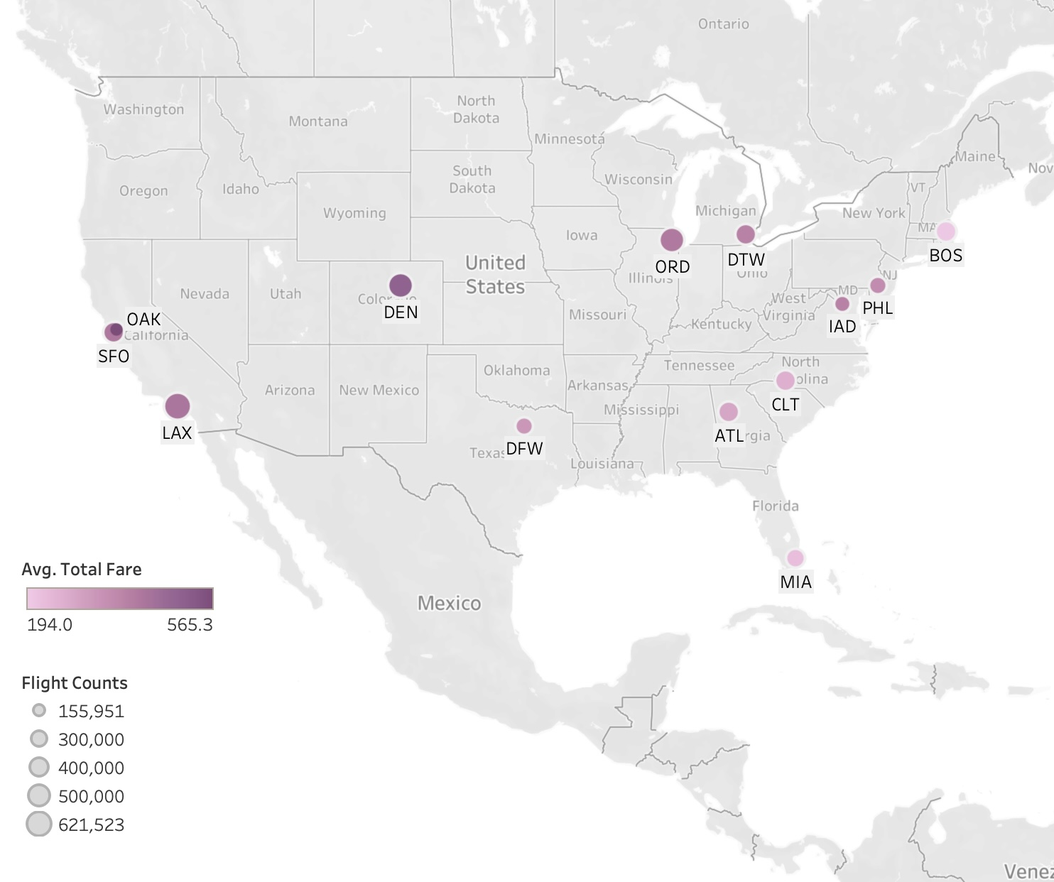
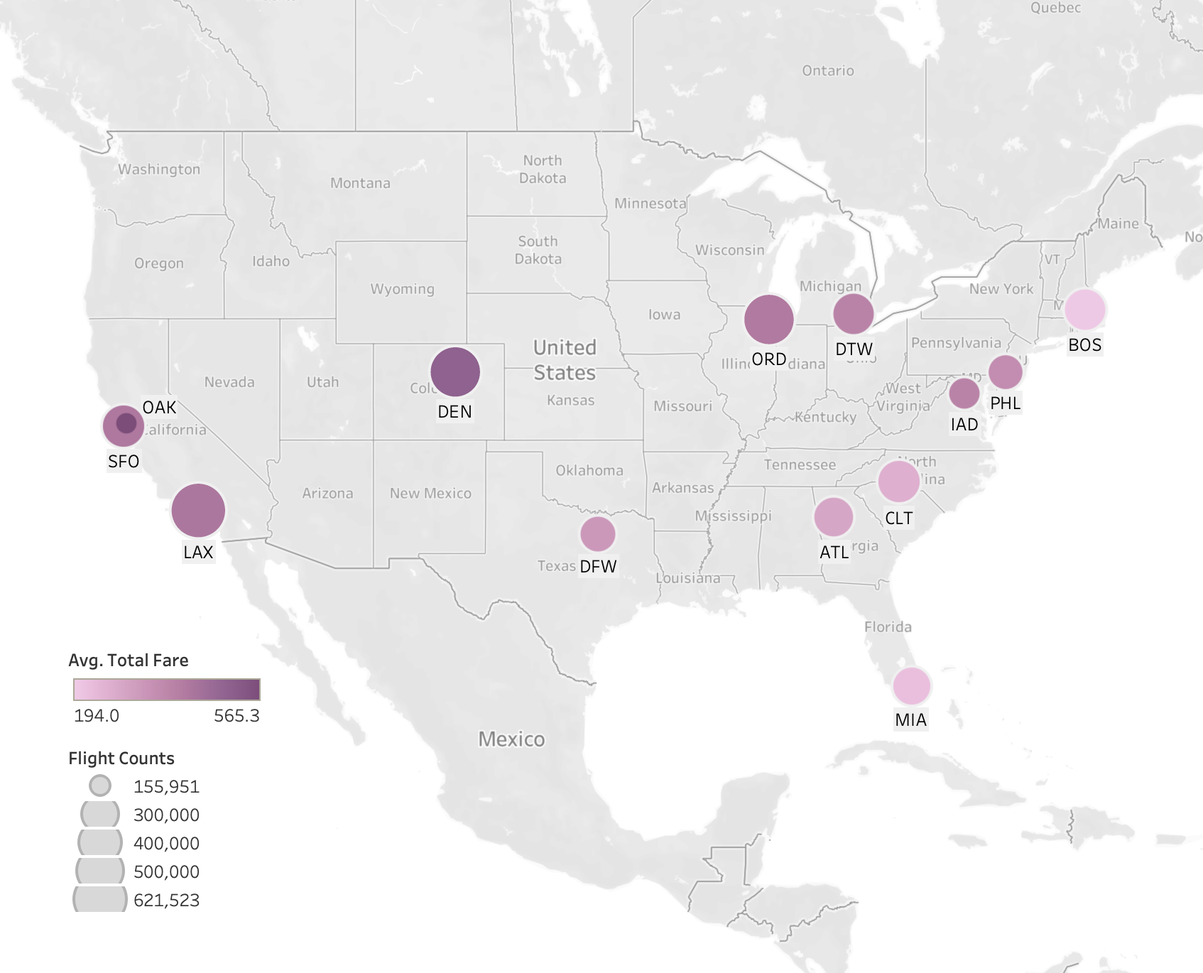
expedia project changes

diff --git a/expedia.html b/expedia.html
@@ -151,7 +151,7 @@
                                                 seeking regional trends and anomalies.</li>
                                             <li><b>Seasonal Fare Trends: </b>To reveal how flight prices and demand
                                                 fluctuate over time,
-                                                especially in relation to seasons, holidays, and weekdays.</li>
+                                                especially in relation to seasons and weekdays.</li>
                                             <li><b>Demand Analysis: </b>To quantify the market share of airlines
                                                 operating flights to JFK, identifying dominant
                                                 carriers and competitive dynamics.</li>
@@ -190,13 +190,12 @@
                                                     <li><b>Null Value Treatment: </b>Eliminated rows with missing data
                                                         to ensure dataset integrity.</li>
                                                     <li><b>Boolean to Numeric: </b>Converted boolean columns like
-                                                        'isBasicEconomy', 'isRefundable', and 'isNonStop' to numeric
-                                                        form (0 and 1).</li>
+                                                        'isBasicEconomy' to numeric form (0 & 1).</li>
                                                     <li><b>Date Transformation: </b>Transformed 'searchDate' and
                                                         'flightDate' into datetime format and 'travelDuration' into
                                                         minutes.</li>
                                                     <li><b>Additional Attributes: </b>Enriched the dataset with new
-                                                        columns for weekdays and holidays from an external source.</li>
+                                                        columns for weekdays.</li>
                                                     <li><b>Segment Standardization: </b>Unified 'segmentsAirlineCode'
                                                         and 'segmentsCabinCode', labeling as 'multiple' where necessary.
                                                     </li>
@@ -227,272 +226,64 @@
                                         <p></p>
 
                                         <!-- Geographical Distribution -->
-                                        <div class='tableauPlaceholder' id='viz1703931283215'
-                                            style='position: relative'><noscript><a href='#'><img
-                                                        alt='Geographical Distribution '
-                                                        src='https:&#47;&#47;public.tableau.com&#47;static&#47;images&#47;Ai&#47;AirlineProject_17038965271980&#47;GeographicalDistribution&#47;1_rss.png'
-                                                        style='border: none' /></a></noscript><object class='tableauViz'
-                                                style='display:none;'>
-                                                <param name='host_url' value='https%3A%2F%2Fpublic.tableau.com%2F' />
-                                                <param name='embed_code_version' value='3' />
-                                                <param name='site_root' value='' />
-                                                <param name='name'
-                                                    value='AirlineProject_17038965271980&#47;GeographicalDistribution' />
-                                                <param name='tabs' value='no' />
-                                                <param name='toolbar' value='yes' />
-                                                <param name='static_image'
-                                                    value='https:&#47;&#47;public.tableau.com&#47;static&#47;images&#47;Ai&#47;AirlineProject_17038965271980&#47;GeographicalDistribution&#47;1.png' />
-                                                <param name='animate_transition' value='yes' />
-                                                <param name='display_static_image' value='yes' />
-                                                <param name='display_spinner' value='yes' />
-                                                <param name='display_overlay' value='yes' />
-                                                <param name='display_count' value='yes' />
-                                                <param name='language' value='en-US' />
-                                                <param name='filter' value='publish=yes' />
-                                            </object></div>
-                                        <script type='text/javascript'>
-                                            var divElement = document.getElementById('viz1703931283215');
-                                            var vizElement = divElement.getElementsByTagName('object')[0];
-                                            if (divElement.offsetWidth > 800) { vizElement.style.width = '1000px'; vizElement.style.height = '827px'; }
-                                            else if (divElement.offsetWidth > 500) { vizElement.style.width = '1000px'; vizElement.style.height = '827px'; }
-                                            else { vizElement.style.width = '100%'; vizElement.style.height = '727px'; }
-                                            var scriptElement = document.createElement('script');
-                                            scriptElement.src = 'https://public.tableau.com/javascripts/api/viz_v1.js';
-                                            vizElement.parentNode.insertBefore(scriptElement, vizElement);                
-                                        </script>
+                                        <div class='tableauPlaceholder' id='viz1704440425327' style='position: relative'><noscript><a href='#'><img alt='Geographical Distribution ' src='https:&#47;&#47;public.tableau.com&#47;static&#47;images&#47;Ai&#47;AirlineProject_17038965271980&#47;GeographicalDistribution&#47;1_rss.png' style='border: none' /></a></noscript><object class='tableauViz'  style='display:none;'><param name='host_url' value='https%3A%2F%2Fpublic.tableau.com%2F' /> <param name='embed_code_version' value='3' /> <param name='site_root' value='' /><param name='name' value='AirlineProject_17038965271980&#47;GeographicalDistribution' /><param name='tabs' value='no' /><param name='toolbar' value='yes' /><param name='static_image' value='https:&#47;&#47;public.tableau.com&#47;static&#47;images&#47;Ai&#47;AirlineProject_17038965271980&#47;GeographicalDistribution&#47;1.png' /> <param name='animate_transition' value='yes' /><param name='display_static_image' value='yes' /><param name='display_spinner' value='yes' /><param name='display_overlay' value='yes' /><param name='display_count' value='yes' /><param name='language' value='en-US' /><param name='filter' value='publish=yes' /></object></div>                <script type='text/javascript'>                    var divElement = document.getElementById('viz1704440425327');                    var vizElement = divElement.getElementsByTagName('object')[0];                    if ( divElement.offsetWidth > 800 ) { vizElement.style.width='1000px';vizElement.style.height='827px';} else if ( divElement.offsetWidth > 500 ) { vizElement.style.width='1000px';vizElement.style.height='827px';} else { vizElement.style.width='100%';vizElement.style.height='727px';}                     var scriptElement = document.createElement('script');                    scriptElement.src = 'https://public.tableau.com/javascripts/api/viz_v1.js';                    vizElement.parentNode.insertBefore(scriptElement, vizElement);                </script>
                                         <P></P>
 
-                                        <!-- Monthly Flight Activity and Pricing Dynamics -->
-                                        <div class='tableauPlaceholder' id='viz1703926471839'
-                                            style='position: relative'>
-                                            <noscript><a href='#'><img alt='Flight Demand and Fare Trends '
-                                                        src='https:&#47;&#47;public.tableau.com&#47;static&#47;images&#47;Ex&#47;ExpediaProject-MonthlyFlightActivityandPricingDynamics&#47;FlightDemandandFareTrends&#47;1_rss.png'
-                                                        style='border: none' /></a></noscript><object class='tableauViz'
-                                                style='display:none;'>
-                                                <param name='host_url' value='https%3A%2F%2Fpublic.tableau.com%2F' />
-                                                <param name='embed_code_version' value='3' />
-                                                <param name='site_root' value='' />
-                                                <param name='name'
-                                                    value='ExpediaProject-MonthlyFlightActivityandPricingDynamics&#47;FlightDemandandFareTrends' />
-                                                <param name='tabs' value='no' />
-                                                <param name='toolbar' value='yes' />
-                                                <param name='static_image'
-                                                    value='https:&#47;&#47;public.tableau.com&#47;static&#47;images&#47;Ex&#47;ExpediaProject-MonthlyFlightActivityandPricingDynamics&#47;FlightDemandandFareTrends&#47;1.png' />
-                                                <param name='animate_transition' value='yes' />
-                                                <param name='display_static_image' value='yes' />
-                                                <param name='display_spinner' value='yes' />
-                                                <param name='display_overlay' value='yes' />
-                                                <param name='display_count' value='yes' />
-                                                <param name='language' value='en-US' />
-                                            </object>
-                                        </div>
-                                        <script type='text/javascript'>
-                                            var divElement = document.getElementById('viz1703926471839');
-                                            var vizElement = divElement.getElementsByTagName('object')[0];
-                                            if (divElement.offsetWidth > 800) { vizElement.style.width = '1000px'; vizElement.style.height = '1527px'; }
-                                            else if (divElement.offsetWidth > 500) { vizElement.style.width = '1000px'; vizElement.style.height = '1527px'; }
-                                            else { vizElement.style.width = '100%'; vizElement.style.height = '877px'; }
-                                            var scriptElement = document.createElement('script');
-                                            scriptElement.src = 'https://public.tableau.com/javascripts/api/viz_v1.js';
-                                            vizElement.parentNode.insertBefore(scriptElement, vizElement);                
-                                        </script>
+                                        <!-- Flight Demand and Fare Trends -->
+                                        <div class='tableauPlaceholder' id='viz1704437498984' style='position: relative'><noscript><a href='#'><img alt='Flight Demand and Fare Trends ' src='https:&#47;&#47;public.tableau.com&#47;static&#47;images&#47;Ex&#47;ExpediaProject-FlightDemandandFareTrends&#47;FlightDemandandFareTrends&#47;1_rss.png' style='border: none' /></a></noscript><object class='tableauViz'  style='display:none;'><param name='host_url' value='https%3A%2F%2Fpublic.tableau.com%2F' /> <param name='embed_code_version' value='3' /> <param name='site_root' value='' /><param name='name' value='ExpediaProject-FlightDemandandFareTrends&#47;FlightDemandandFareTrends' /><param name='tabs' value='no' /><param name='toolbar' value='yes' /><param name='static_image' value='https:&#47;&#47;public.tableau.com&#47;static&#47;images&#47;Ex&#47;ExpediaProject-FlightDemandandFareTrends&#47;FlightDemandandFareTrends&#47;1.png' /> <param name='animate_transition' value='yes' /><param name='display_static_image' value='yes' /><param name='display_spinner' value='yes' /><param name='display_overlay' value='yes' /><param name='display_count' value='yes' /><param name='language' value='en-US' /><param name='filter' value='publish=yes' /></object></div>                <script type='text/javascript'>                    var divElement = document.getElementById('viz1704437498984');                    var vizElement = divElement.getElementsByTagName('object')[0];                    if ( divElement.offsetWidth > 800 ) { vizElement.style.width='1000px';vizElement.style.height='1527px';} else if ( divElement.offsetWidth > 500 ) { vizElement.style.width='1000px';vizElement.style.height='1527px';} else { vizElement.style.width='100%';vizElement.style.height='877px';}                     var scriptElement = document.createElement('script');                    scriptElement.src = 'https://public.tableau.com/javascripts/api/viz_v1.js';                    vizElement.parentNode.insertBefore(scriptElement, vizElement);                </script>
                                         <P></P>
 
                                         <!-- Weekly Fare Analysis -->
-                                        <div class='tableauPlaceholder' id='viz1703926737716'
-                                            style='position: relative'>
-                                            <noscript><a href='#'><img alt='Weekly Fare Analysis '
-                                                        src='https:&#47;&#47;public.tableau.com&#47;static&#47;images&#47;Ex&#47;ExpediaProject-WeeklyFareAnalysis&#47;WeeklyFareAnalysis&#47;1_rss.png'
-                                                        style='border: none' /></a></noscript><object class='tableauViz'
-                                                style='display:none;'>
-                                                <param name='host_url' value='https%3A%2F%2Fpublic.tableau.com%2F' />
-                                                <param name='embed_code_version' value='3' />
-                                                <param name='site_root' value='' />
-                                                <param name='name'
-                                                    value='ExpediaProject-WeeklyFareAnalysis&#47;WeeklyFareAnalysis' />
-                                                <param name='tabs' value='no' />
-                                                <param name='toolbar' value='yes' />
-                                                <param name='static_image'
-                                                    value='https:&#47;&#47;public.tableau.com&#47;static&#47;images&#47;Ex&#47;ExpediaProject-WeeklyFareAnalysis&#47;WeeklyFareAnalysis&#47;1.png' />
-                                                <param name='animate_transition' value='yes' />
-                                                <param name='display_static_image' value='yes' />
-                                                <param name='display_spinner' value='yes' />
-                                                <param name='display_overlay' value='yes' />
-                                                <param name='display_count' value='yes' />
-                                                <param name='language' value='en-US' />
-                                            </object>
-                                        </div>
-                                        <script type='text/javascript'>
-                                            var divElement = document.getElementById('viz1703926737716');
-                                            var vizElement = divElement.getElementsByTagName('object')[0];
-                                            if (divElement.offsetWidth > 800) { vizElement.style.width = '1000px'; vizElement.style.height = '727px'; }
-                                            else if (divElement.offsetWidth > 500) { vizElement.style.width = '1000px'; vizElement.style.height = '727px'; }
-                                            else { vizElement.style.width = '100%'; vizElement.style.height = '727px'; }
-                                            var scriptElement = document.createElement('script');
-                                            scriptElement.src = 'https://public.tableau.com/javascripts/api/viz_v1.js';
-                                            vizElement.parentNode.insertBefore(scriptElement, vizElement);                
-                                        </script>
+                                        <div class='tableauPlaceholder' id='viz1704437720846' style='position: relative'><noscript><a href='#'><img alt='Weekly Fare Analysis ' src='https:&#47;&#47;public.tableau.com&#47;static&#47;images&#47;Ex&#47;ExpediaProject-WeeklyFareAnalysis&#47;WeeklyFareAnalysis&#47;1_rss.png' style='border: none' /></a></noscript><object class='tableauViz'  style='display:none;'><param name='host_url' value='https%3A%2F%2Fpublic.tableau.com%2F' /> <param name='embed_code_version' value='3' /> <param name='site_root' value='' /><param name='name' value='ExpediaProject-WeeklyFareAnalysis&#47;WeeklyFareAnalysis' /><param name='tabs' value='no' /><param name='toolbar' value='yes' /><param name='static_image' value='https:&#47;&#47;public.tableau.com&#47;static&#47;images&#47;Ex&#47;ExpediaProject-WeeklyFareAnalysis&#47;WeeklyFareAnalysis&#47;1.png' /> <param name='animate_transition' value='yes' /><param name='display_static_image' value='yes' /><param name='display_spinner' value='yes' /><param name='display_overlay' value='yes' /><param name='display_count' value='yes' /><param name='language' value='en-US' /><param name='filter' value='publish=yes' /></object></div>                <script type='text/javascript'>                    var divElement = document.getElementById('viz1704437720846');                    var vizElement = divElement.getElementsByTagName('object')[0];                    if ( divElement.offsetWidth > 800 ) { vizElement.style.width='1000px';vizElement.style.height='727px';} else if ( divElement.offsetWidth > 500 ) { vizElement.style.width='1000px';vizElement.style.height='727px';} else { vizElement.style.width='100%';vizElement.style.height='727px';}                     var scriptElement = document.createElement('script');                    scriptElement.src = 'https://public.tableau.com/javascripts/api/viz_v1.js';                    vizElement.parentNode.insertBefore(scriptElement, vizElement);                </script>
                                         <P></P>
 
                                         <!-- Fare Classification Analysis -->
-                                        <div class='tableauPlaceholder' id='viz1703926824691'
-                                            style='position: relative'>
-                                            <noscript><a href='#'><img alt='Fare Classification Analysis '
-                                                        src='https:&#47;&#47;public.tableau.com&#47;static&#47;images&#47;Ex&#47;ExpediaProject-FareClassificationAnalysis&#47;FareClassificationAnalysis&#47;1_rss.png'
-                                                        style='border: none' /></a></noscript><object class='tableauViz'
-                                                style='display:none;'>
-                                                <param name='host_url' value='https%3A%2F%2Fpublic.tableau.com%2F' />
-                                                <param name='embed_code_version' value='3' />
-                                                <param name='site_root' value='' />
-                                                <param name='name'
-                                                    value='ExpediaProject-FareClassificationAnalysis&#47;FareClassificationAnalysis' />
-                                                <param name='tabs' value='no' />
-                                                <param name='toolbar' value='yes' />
-                                                <param name='static_image'
-                                                    value='https:&#47;&#47;public.tableau.com&#47;static&#47;images&#47;Ex&#47;ExpediaProject-FareClassificationAnalysis&#47;FareClassificationAnalysis&#47;1.png' />
-                                                <param name='animate_transition' value='yes' />
-                                                <param name='display_static_image' value='yes' />
-                                                <param name='display_spinner' value='yes' />
-                                                <param name='display_overlay' value='yes' />
-                                                <param name='display_count' value='yes' />
-                                                <param name='language' value='en-US' />
-                                            </object>
-                                        </div>
-                                        <script type='text/javascript'>
-                                            var divElement = document.getElementById('viz1703926824691');
-                                            var vizElement = divElement.getElementsByTagName('object')[0];
-                                            if (divElement.offsetWidth > 800) { vizElement.style.width = '1000px'; vizElement.style.height = '827px'; }
-                                            else if (divElement.offsetWidth > 500) { vizElement.style.width = '1000px'; vizElement.style.height = '827px'; }
-                                            else { vizElement.style.width = '100%'; vizElement.style.height = '727px'; }
-                                            var scriptElement = document.createElement('script');
-                                            scriptElement.src = 'https://public.tableau.com/javascripts/api/viz_v1.js';
-                                            vizElement.parentNode.insertBefore(scriptElement, vizElement);                
-                                        </script>
-                                        <P></P>
-
+                                        <div class='tableauPlaceholder' id='viz1704438723256' style='position: relative'><noscript><a href='#'><img alt='Fare Classification Analysis (2) ' src='https:&#47;&#47;public.tableau.com&#47;static&#47;images&#47;Ex&#47;ExpediaProject-FareClassificationAnalysis&#47;FareClassificationAnalysis2&#47;1_rss.png' style='border: none' /></a></noscript><object class='tableauViz'  style='display:none;'><param name='host_url' value='https%3A%2F%2Fpublic.tableau.com%2F' /> <param name='embed_code_version' value='3' /> <param name='site_root' value='' /><param name='name' value='ExpediaProject-FareClassificationAnalysis&#47;FareClassificationAnalysis2' /><param name='tabs' value='no' /><param name='toolbar' value='yes' /><param name='static_image' value='https:&#47;&#47;public.tableau.com&#47;static&#47;images&#47;Ex&#47;ExpediaProject-FareClassificationAnalysis&#47;FareClassificationAnalysis2&#47;1.png' /> <param name='animate_transition' value='yes' /><param name='display_static_image' value='yes' /><param name='display_spinner' value='yes' /><param name='display_overlay' value='yes' /><param name='display_count' value='yes' /><param name='language' value='en-US' /><param name='filter' value='publish=yes' /></object></div>                <script type='text/javascript'>                    var divElement = document.getElementById('viz1704438723256');                    var vizElement = divElement.getElementsByTagName('object')[0];                    if ( divElement.offsetWidth > 800 ) { vizElement.style.width='1000px';vizElement.style.height='527px';} else if ( divElement.offsetWidth > 500 ) { vizElement.style.width='1000px';vizElement.style.height='527px';} else { vizElement.style.width='100%';vizElement.style.height='727px';}                     var scriptElement = document.createElement('script');                    scriptElement.src = 'https://public.tableau.com/javascripts/api/viz_v1.js';                    vizElement.parentNode.insertBefore(scriptElement, vizElement);                </script>                                        <P></P>
+                                        
                                         <!-- Dynamic Pricing Analysis -->
-                                        <div class='tableauPlaceholder' id='viz1703926908151'
-                                            style='position: relative'>
-                                            <noscript><a href='#'><img alt='Dynamic Pricing Analysis '
-                                                        src='https:&#47;&#47;public.tableau.com&#47;static&#47;images&#47;Ex&#47;ExpediaProject-DynamicPricingAnalysis&#47;DynamicPricingAnalysis&#47;1_rss.png'
-                                                        style='border: none' /></a></noscript><object class='tableauViz'
-                                                style='display:none;'>
-                                                <param name='host_url' value='https%3A%2F%2Fpublic.tableau.com%2F' />
-                                                <param name='embed_code_version' value='3' />
-                                                <param name='site_root' value='' />
-                                                <param name='name'
-                                                    value='ExpediaProject-DynamicPricingAnalysis&#47;DynamicPricingAnalysis' />
-                                                <param name='tabs' value='no' />
-                                                <param name='toolbar' value='yes' />
-                                                <param name='static_image'
-                                                    value='https:&#47;&#47;public.tableau.com&#47;static&#47;images&#47;Ex&#47;ExpediaProject-DynamicPricingAnalysis&#47;DynamicPricingAnalysis&#47;1.png' />
-                                                <param name='animate_transition' value='yes' />
-                                                <param name='display_static_image' value='yes' />
-                                                <param name='display_spinner' value='yes' />
-                                                <param name='display_overlay' value='yes' />
-                                                <param name='display_count' value='yes' />
-                                                <param name='language' value='en-US' />
-                                            </object>
-                                        </div>
-                                        <script type='text/javascript'>
-                                            var divElement = document.getElementById('viz1703926908151');
-                                            var vizElement = divElement.getElementsByTagName('object')[0];
-                                            if (divElement.offsetWidth > 800) { vizElement.style.width = '1000px'; vizElement.style.height = '1527px'; }
-                                            else if (divElement.offsetWidth > 500) { vizElement.style.width = '1000px'; vizElement.style.height = '1527px'; }
-                                            else { vizElement.style.width = '100%'; vizElement.style.height = '777px'; }
-                                            var scriptElement = document.createElement('script');
-                                            scriptElement.src = 'https://public.tableau.com/javascripts/api/viz_v1.js';
-                                            vizElement.parentNode.insertBefore(scriptElement, vizElement);                
-                                        </script>
+                                        <div class='tableauPlaceholder' id='viz1704438795963' style='position: relative'><noscript><a href='#'><img alt='Dynamic Pricing Analysis ' src='https:&#47;&#47;public.tableau.com&#47;static&#47;images&#47;Ex&#47;ExpediaProject-DynamicPricingAnalysis&#47;DynamicPricingAnalysis&#47;1_rss.png' style='border: none' /></a></noscript><object class='tableauViz'  style='display:none;'><param name='host_url' value='https%3A%2F%2Fpublic.tableau.com%2F' /> <param name='embed_code_version' value='3' /> <param name='site_root' value='' /><param name='name' value='ExpediaProject-DynamicPricingAnalysis&#47;DynamicPricingAnalysis' /><param name='tabs' value='no' /><param name='toolbar' value='yes' /><param name='static_image' value='https:&#47;&#47;public.tableau.com&#47;static&#47;images&#47;Ex&#47;ExpediaProject-DynamicPricingAnalysis&#47;DynamicPricingAnalysis&#47;1.png' /> <param name='animate_transition' value='yes' /><param name='display_static_image' value='yes' /><param name='display_spinner' value='yes' /><param name='display_overlay' value='yes' /><param name='display_count' value='yes' /><param name='language' value='en-US' /></object></div>                <script type='text/javascript'>                    var divElement = document.getElementById('viz1704438795963');                    var vizElement = divElement.getElementsByTagName('object')[0];                    if ( divElement.offsetWidth > 800 ) { vizElement.style.width='1000px';vizElement.style.height='1527px';} else if ( divElement.offsetWidth > 500 ) { vizElement.style.width='1000px';vizElement.style.height='1527px';} else { vizElement.style.width='100%';vizElement.style.height='777px';}                     var scriptElement = document.createElement('script');                    scriptElement.src = 'https://public.tableau.com/javascripts/api/viz_v1.js';                    vizElement.parentNode.insertBefore(scriptElement, vizElement);                </script>
                                         <P></P>
 
                                         <!-- Airline Market Share and Pricing Analysis -->
-                                        <div class='tableauPlaceholder' id='viz1703934482093'
-                                            style='position: relative'><noscript><a href='#'><img
-                                                        alt='Airline Market Share and Pricing Analysis '
-                                                        src='https:&#47;&#47;public.tableau.com&#47;static&#47;images&#47;Ex&#47;ExpediaProject-AirlineMarketShareandPricingAnalysis&#47;AirlineMarketShareandPricingAnalysis&#47;1_rss.png'
-                                                        style='border: none' /></a></noscript><object class='tableauViz'
-                                                style='display:none;'>
-                                                <param name='host_url' value='https%3A%2F%2Fpublic.tableau.com%2F' />
-                                                <param name='embed_code_version' value='3' />
-                                                <param name='site_root' value='' />
-                                                <param name='name'
-                                                    value='ExpediaProject-AirlineMarketShareandPricingAnalysis&#47;AirlineMarketShareandPricingAnalysis' />
-                                                <param name='tabs' value='no' />
-                                                <param name='toolbar' value='yes' />
-                                                <param name='static_image'
-                                                    value='https:&#47;&#47;public.tableau.com&#47;static&#47;images&#47;Ex&#47;ExpediaProject-AirlineMarketShareandPricingAnalysis&#47;AirlineMarketShareandPricingAnalysis&#47;1.png' />
-                                                <param name='animate_transition' value='yes' />
-                                                <param name='display_static_image' value='yes' />
-                                                <param name='display_spinner' value='yes' />
-                                                <param name='display_overlay' value='yes' />
-                                                <param name='display_count' value='yes' />
-                                                <param name='language' value='en-US' />
-                                            </object></div>
-                                        <script
-                                            type='text/javascript'>                    
-                                            var divElement = document.getElementById('viz1703934482093'); 
-                                            var vizElement = divElement.getElementsByTagName('object')[0]; 
-                                            if (divElement.offsetWidth > 800) { vizElement.style.width = '1000px'; vizElement.style.height = '2127px'; } 
-                                            else if (divElement.offsetWidth > 500) { vizElement.style.width = '1000px'; vizElement.style.height = '2127px'; } 
-                                            else { vizElement.style.width = '100%'; vizElement.style.height = '1277px'; } 
-                                            var scriptElement = document.createElement('script'); 
-                                            scriptElement.src = 'https://public.tableau.com/javascripts/api/viz_v1.js'; 
-                                            vizElement.parentNode.insertBefore(scriptElement, vizElement);                
-                                        </script>
+                                        <div class='tableauPlaceholder' id='viz1704438916070' style='position: relative'><noscript><a href='#'><img alt='Airline Market Share and Pricing Analysis ' src='https:&#47;&#47;public.tableau.com&#47;static&#47;images&#47;Ex&#47;ExpediaProject-AirlineMarketShareandPricingAnalysis&#47;AirlineMarketShareandPricingAnalysis&#47;1_rss.png' style='border: none' /></a></noscript><object class='tableauViz'  style='display:none;'><param name='host_url' value='https%3A%2F%2Fpublic.tableau.com%2F' /> <param name='embed_code_version' value='3' /> <param name='site_root' value='' /><param name='name' value='ExpediaProject-AirlineMarketShareandPricingAnalysis&#47;AirlineMarketShareandPricingAnalysis' /><param name='tabs' value='no' /><param name='toolbar' value='yes' /><param name='static_image' value='https:&#47;&#47;public.tableau.com&#47;static&#47;images&#47;Ex&#47;ExpediaProject-AirlineMarketShareandPricingAnalysis&#47;AirlineMarketShareandPricingAnalysis&#47;1.png' /> <param name='animate_transition' value='yes' /><param name='display_static_image' value='yes' /><param name='display_spinner' value='yes' /><param name='display_overlay' value='yes' /><param name='display_count' value='yes' /><param name='language' value='en-US' /><param name='filter' value='publish=yes' /></object></div>                <script type='text/javascript'>                    var divElement = document.getElementById('viz1704438916070');                    var vizElement = divElement.getElementsByTagName('object')[0];                    if ( divElement.offsetWidth > 800 ) { vizElement.style.width='1000px';vizElement.style.height='2127px';} else if ( divElement.offsetWidth > 500 ) { vizElement.style.width='1000px';vizElement.style.height='2127px';} else { vizElement.style.width='100%';vizElement.style.height='1277px';}                     var scriptElement = document.createElement('script');                    scriptElement.src = 'https://public.tableau.com/javascripts/api/viz_v1.js';                    vizElement.parentNode.insertBefore(scriptElement, vizElement);                </script>
                                         <P></P>
 
                                         <!-- Cabin Class Pricing Analysis -->
-                                        <div class='tableauPlaceholder' id='viz1703934414133'
-                                            style='position: relative'><noscript><a href='#'><img
-                                                        alt='Cabin Class Pricing Analysis '
-                                                        src='https:&#47;&#47;public.tableau.com&#47;static&#47;images&#47;Ex&#47;ExpediaProject-CabinClassPricingAnalysis&#47;CabinClassPricingAnalysis&#47;1_rss.png'
-                                                        style='border: none' /></a></noscript><object class='tableauViz'
-                                                style='display:none;'>
-                                                <param name='host_url' value='https%3A%2F%2Fpublic.tableau.com%2F' />
-                                                <param name='embed_code_version' value='3' />
-                                                <param name='site_root' value='' />
-                                                <param name='name'
-                                                    value='ExpediaProject-CabinClassPricingAnalysis&#47;CabinClassPricingAnalysis' />
-                                                <param name='tabs' value='no' />
-                                                <param name='toolbar' value='yes' />
-                                                <param name='static_image'
-                                                    value='https:&#47;&#47;public.tableau.com&#47;static&#47;images&#47;Ex&#47;ExpediaProject-CabinClassPricingAnalysis&#47;CabinClassPricingAnalysis&#47;1.png' />
-                                                <param name='animate_transition' value='yes' />
-                                                <param name='display_static_image' value='yes' />
-                                                <param name='display_spinner' value='yes' />
-                                                <param name='display_overlay' value='yes' />
-                                                <param name='display_count' value='yes' />
-                                                <param name='language' value='en-US' />
-                                                <param name='filter' value='publish=yes' />
-                                            </object></div>
-                                        <script type='text/javascript'>
-                                            var divElement = document.getElementById('viz1703934414133');
-                                            var vizElement = divElement.getElementsByTagName('object')[0];
-                                            if (divElement.offsetWidth > 800) { vizElement.style.width = '1000px'; vizElement.style.height = '1427px'; }
-                                            else if (divElement.offsetWidth > 500) { vizElement.style.width = '1000px'; vizElement.style.height = '1427px'; }
-                                            else { vizElement.style.width = '100%'; vizElement.style.height = '727px'; }
-                                            var scriptElement = document.createElement('script');
-                                            scriptElement.src = 'https://public.tableau.com/javascripts/api/viz_v1.js';
-                                            vizElement.parentNode.insertBefore(scriptElement, vizElement);                
-                                        </script>
+                                        <div class='tableauPlaceholder' id='viz1704439035351' style='position: relative'><noscript><a href='#'><img alt='Cabin Class Pricing Analysis ' src='https:&#47;&#47;public.tableau.com&#47;static&#47;images&#47;Ex&#47;ExpediaProject-CabinClassPricingAnalysis&#47;CabinClassPricingAnalysis&#47;1_rss.png' style='border: none' /></a></noscript><object class='tableauViz'  style='display:none;'><param name='host_url' value='https%3A%2F%2Fpublic.tableau.com%2F' /> <param name='embed_code_version' value='3' /> <param name='site_root' value='' /><param name='name' value='ExpediaProject-CabinClassPricingAnalysis&#47;CabinClassPricingAnalysis' /><param name='tabs' value='no' /><param name='toolbar' value='yes' /><param name='static_image' value='https:&#47;&#47;public.tableau.com&#47;static&#47;images&#47;Ex&#47;ExpediaProject-CabinClassPricingAnalysis&#47;CabinClassPricingAnalysis&#47;1.png' /> <param name='animate_transition' value='yes' /><param name='display_static_image' value='yes' /><param name='display_spinner' value='yes' /><param name='display_overlay' value='yes' /><param name='display_count' value='yes' /><param name='language' value='en-US' /><param name='filter' value='publish=yes' /></object></div>                <script type='text/javascript'>                    var divElement = document.getElementById('viz1704439035351');                    var vizElement = divElement.getElementsByTagName('object')[0];                    if ( divElement.offsetWidth > 800 ) { vizElement.style.width='1000px';vizElement.style.height='1427px';} else if ( divElement.offsetWidth > 500 ) { vizElement.style.width='1000px';vizElement.style.height='1427px';} else { vizElement.style.width='100%';vizElement.style.height='727px';}                     var scriptElement = document.createElement('script');                    scriptElement.src = 'https://public.tableau.com/javascripts/api/viz_v1.js';                    vizElement.parentNode.insertBefore(scriptElement, vizElement);                </script>
                                         <P></P>
 
+                                    </div>
+                                    <div class="single_bloginner s_blogIner_3 margin-top-40">
+                                        <div class="separator2"></div>
+                                        <h3>Key Takeaways</h3>
+                                        <p></p>
+                                        
                                         <p>
-                                            In summary, the analysis presents a multifaceted view of the airline
-                                            industry's dynamics in relation to JFK-bound flights. It covers geographic
-                                            and temporal demand, day-of-week pricing patterns, market share, and pricing
-                                            strategies across different classes.
+                                            <ol>
+                                                <li>
+                                                    Summer months showed an unexpected trend: despite high demand, flight fares did not spike, suggesting competitive pricing 
+                                                    among airlines to attract customers. This price strategy ensured that revenue remained high due to increased passenger volume.
+                                                </li>
+                                                <br>
+                                                <li>Fares for flights with ample seats remain stable, while those nearing full capacity increase sharply as the travel date approaches. 
+                                                    This suggests a strategic approach for travelers: to monitor flight capacities well in advance. For flights not near full capacity, 
+                                                    they could potentially benefit from waiting, as prices may not significantly increase. However, for nearly full flights, 
+                                                    early booking is advisable to avoid higher costs as the travel date gets closer.
+                                                </li>
+                                                <br>
+                                                <li>
+                                                    American Airlines (AA) emerges as the dominant carrier for JFK-bound flights, reflecting its robust network and strategic presence 
+                                                    at these airports. This suggests a potentially strong brand preference or more comprehensive service offerings compared to 
+                                                    Delta (DL) and JetBlue (B6), which also hold substantial shares.
+                                                </li>
+                                            </ol>
                                         </p>
                                         <p>
-                                            Overall, the findings reflect the airlines' adaptive responses to market
-                                            dynamics and consumer behavior. This overview not only aids in understanding
-                                            the current state of airline operations but also serves as a strategic tool
-                                            for anticipating future trends in the aviation sector, ensuring that
-                                            stakeholders can navigate the complexities of the industry with data-driven
-                                            confidence.
+                                            The analysis offers a comprehensive look at the airline market's behavior towards JFK flights, exploring regional demand, fare variation by weekday, 
+                                            carrier dominance, and class-based pricing strategies. It reveals how airlines adjust to market shifts and passenger preferences. 
+                                            This overview is not just a snapshot of current operations; it's a predictive guide for future industry movements, equipping stakeholders with the 
+                                            insights for informed decision-making.
                                         </p>
-
                                     </div>
 
                                     <div class="text-center  margin-top-60">
